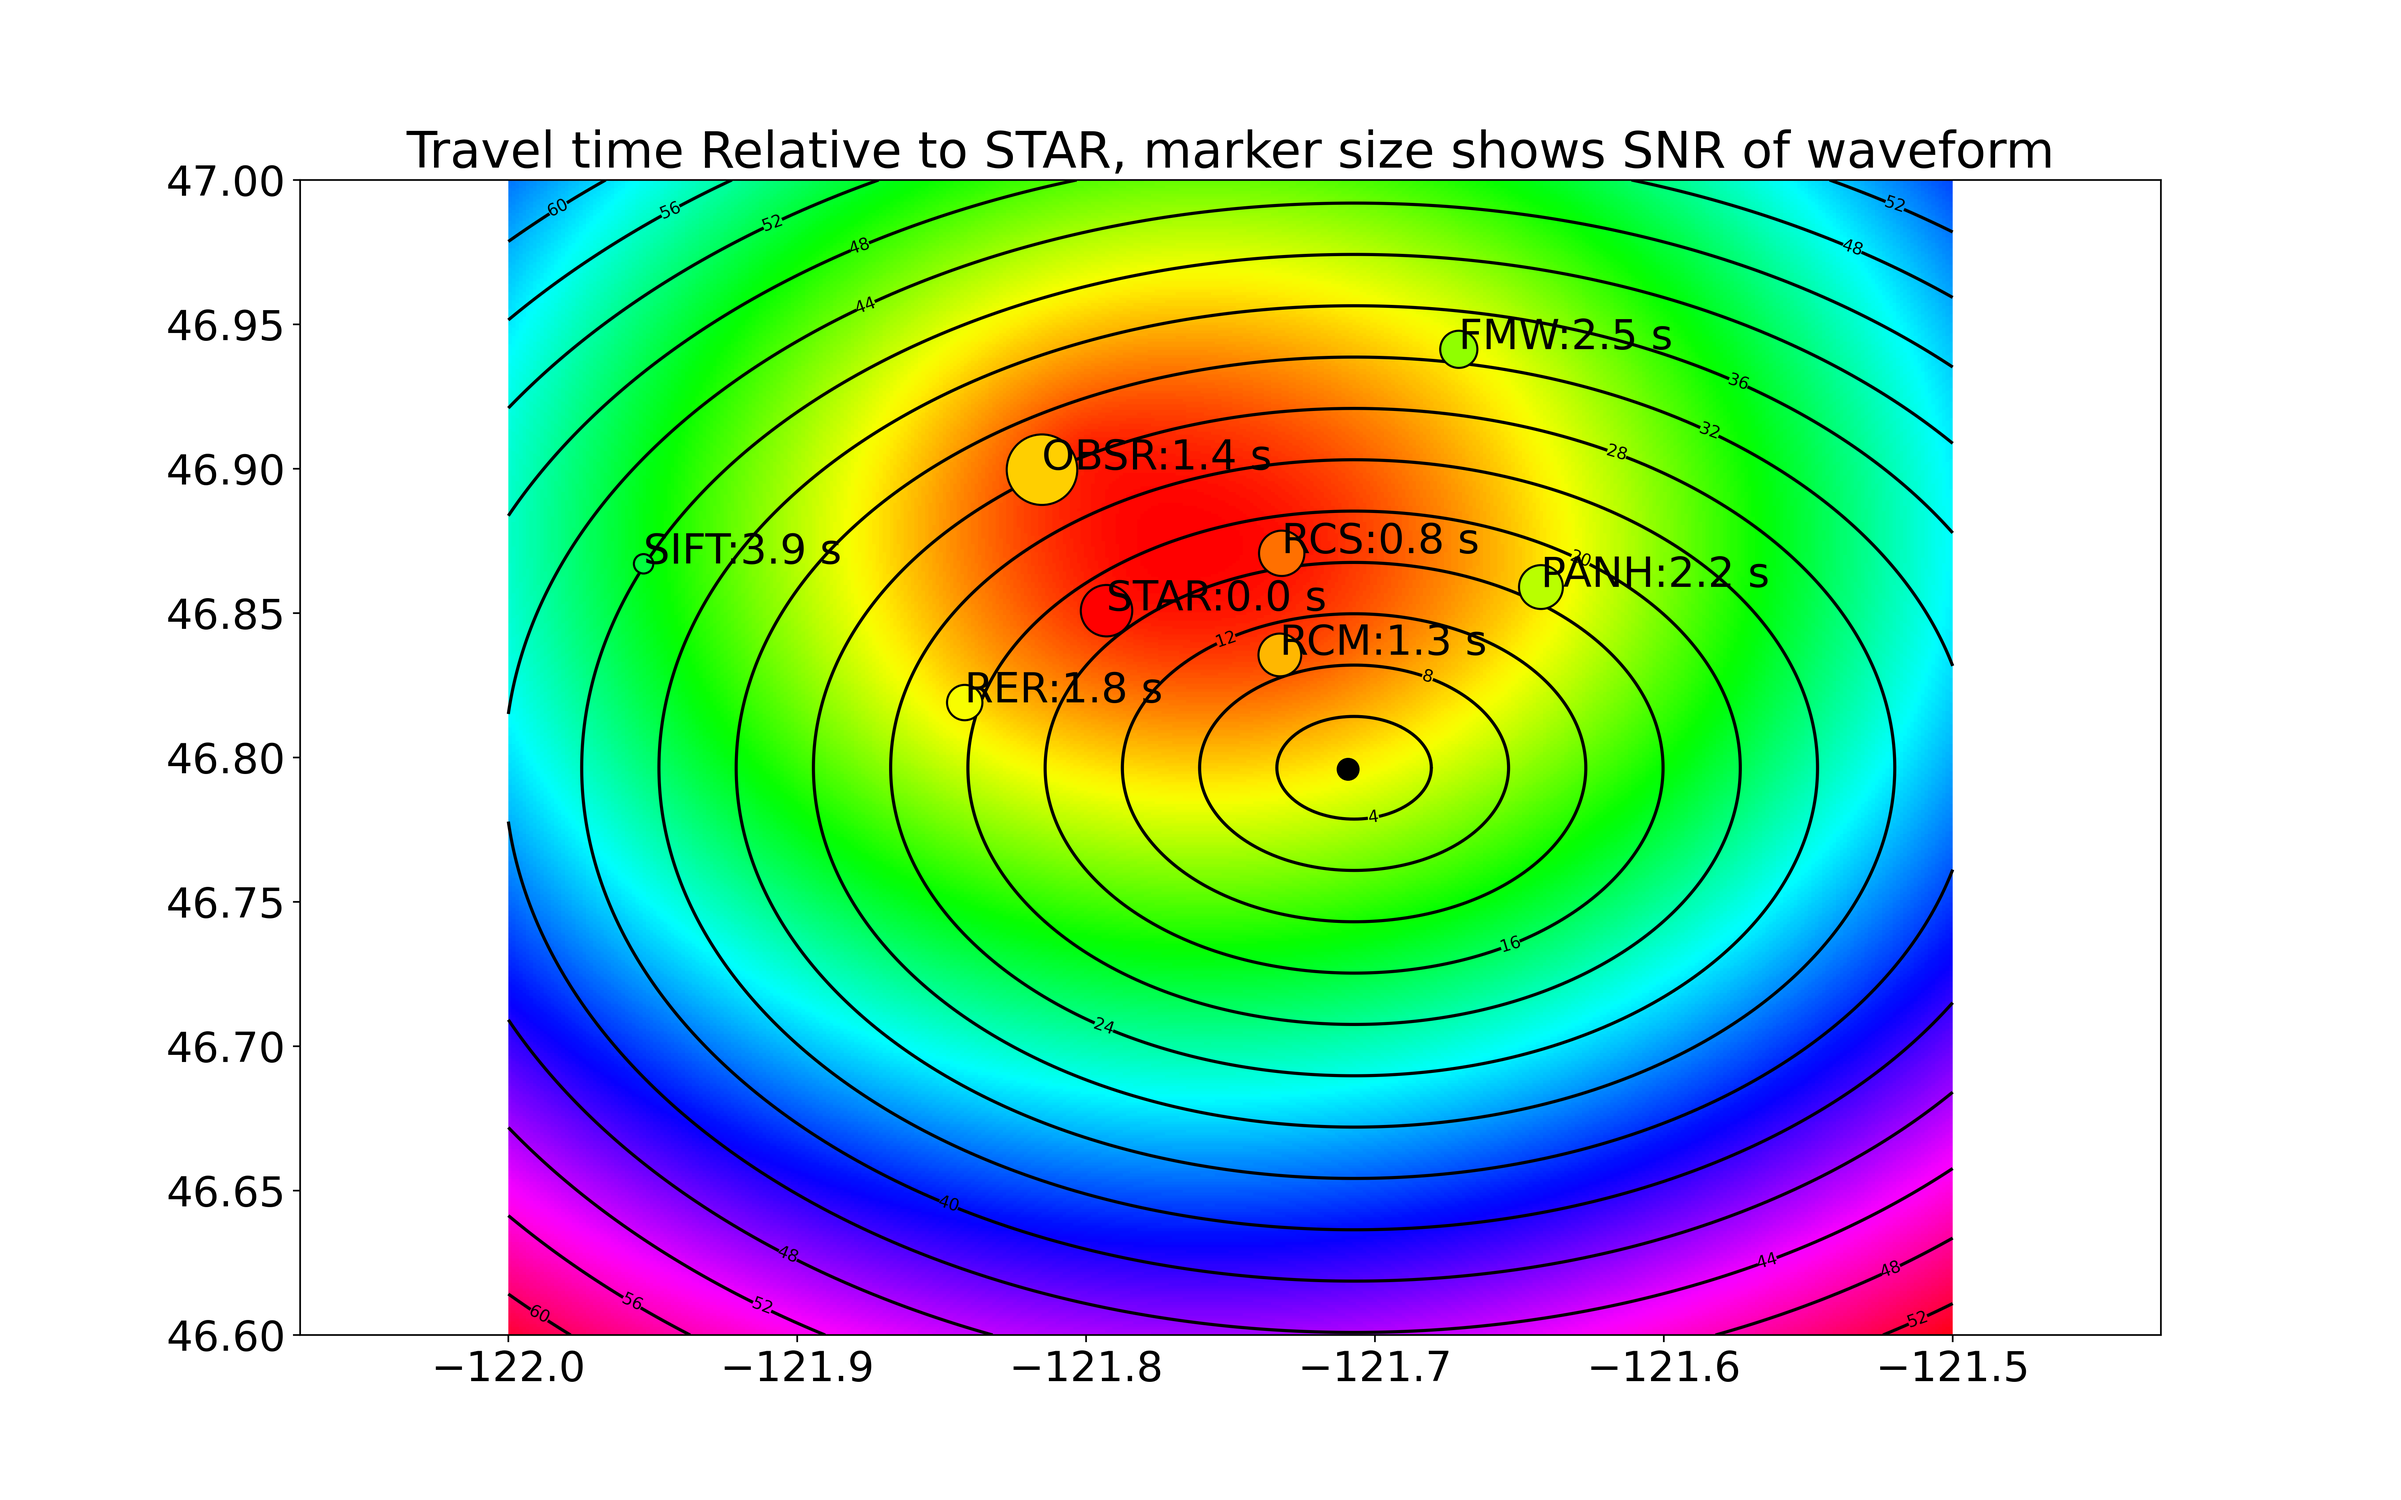
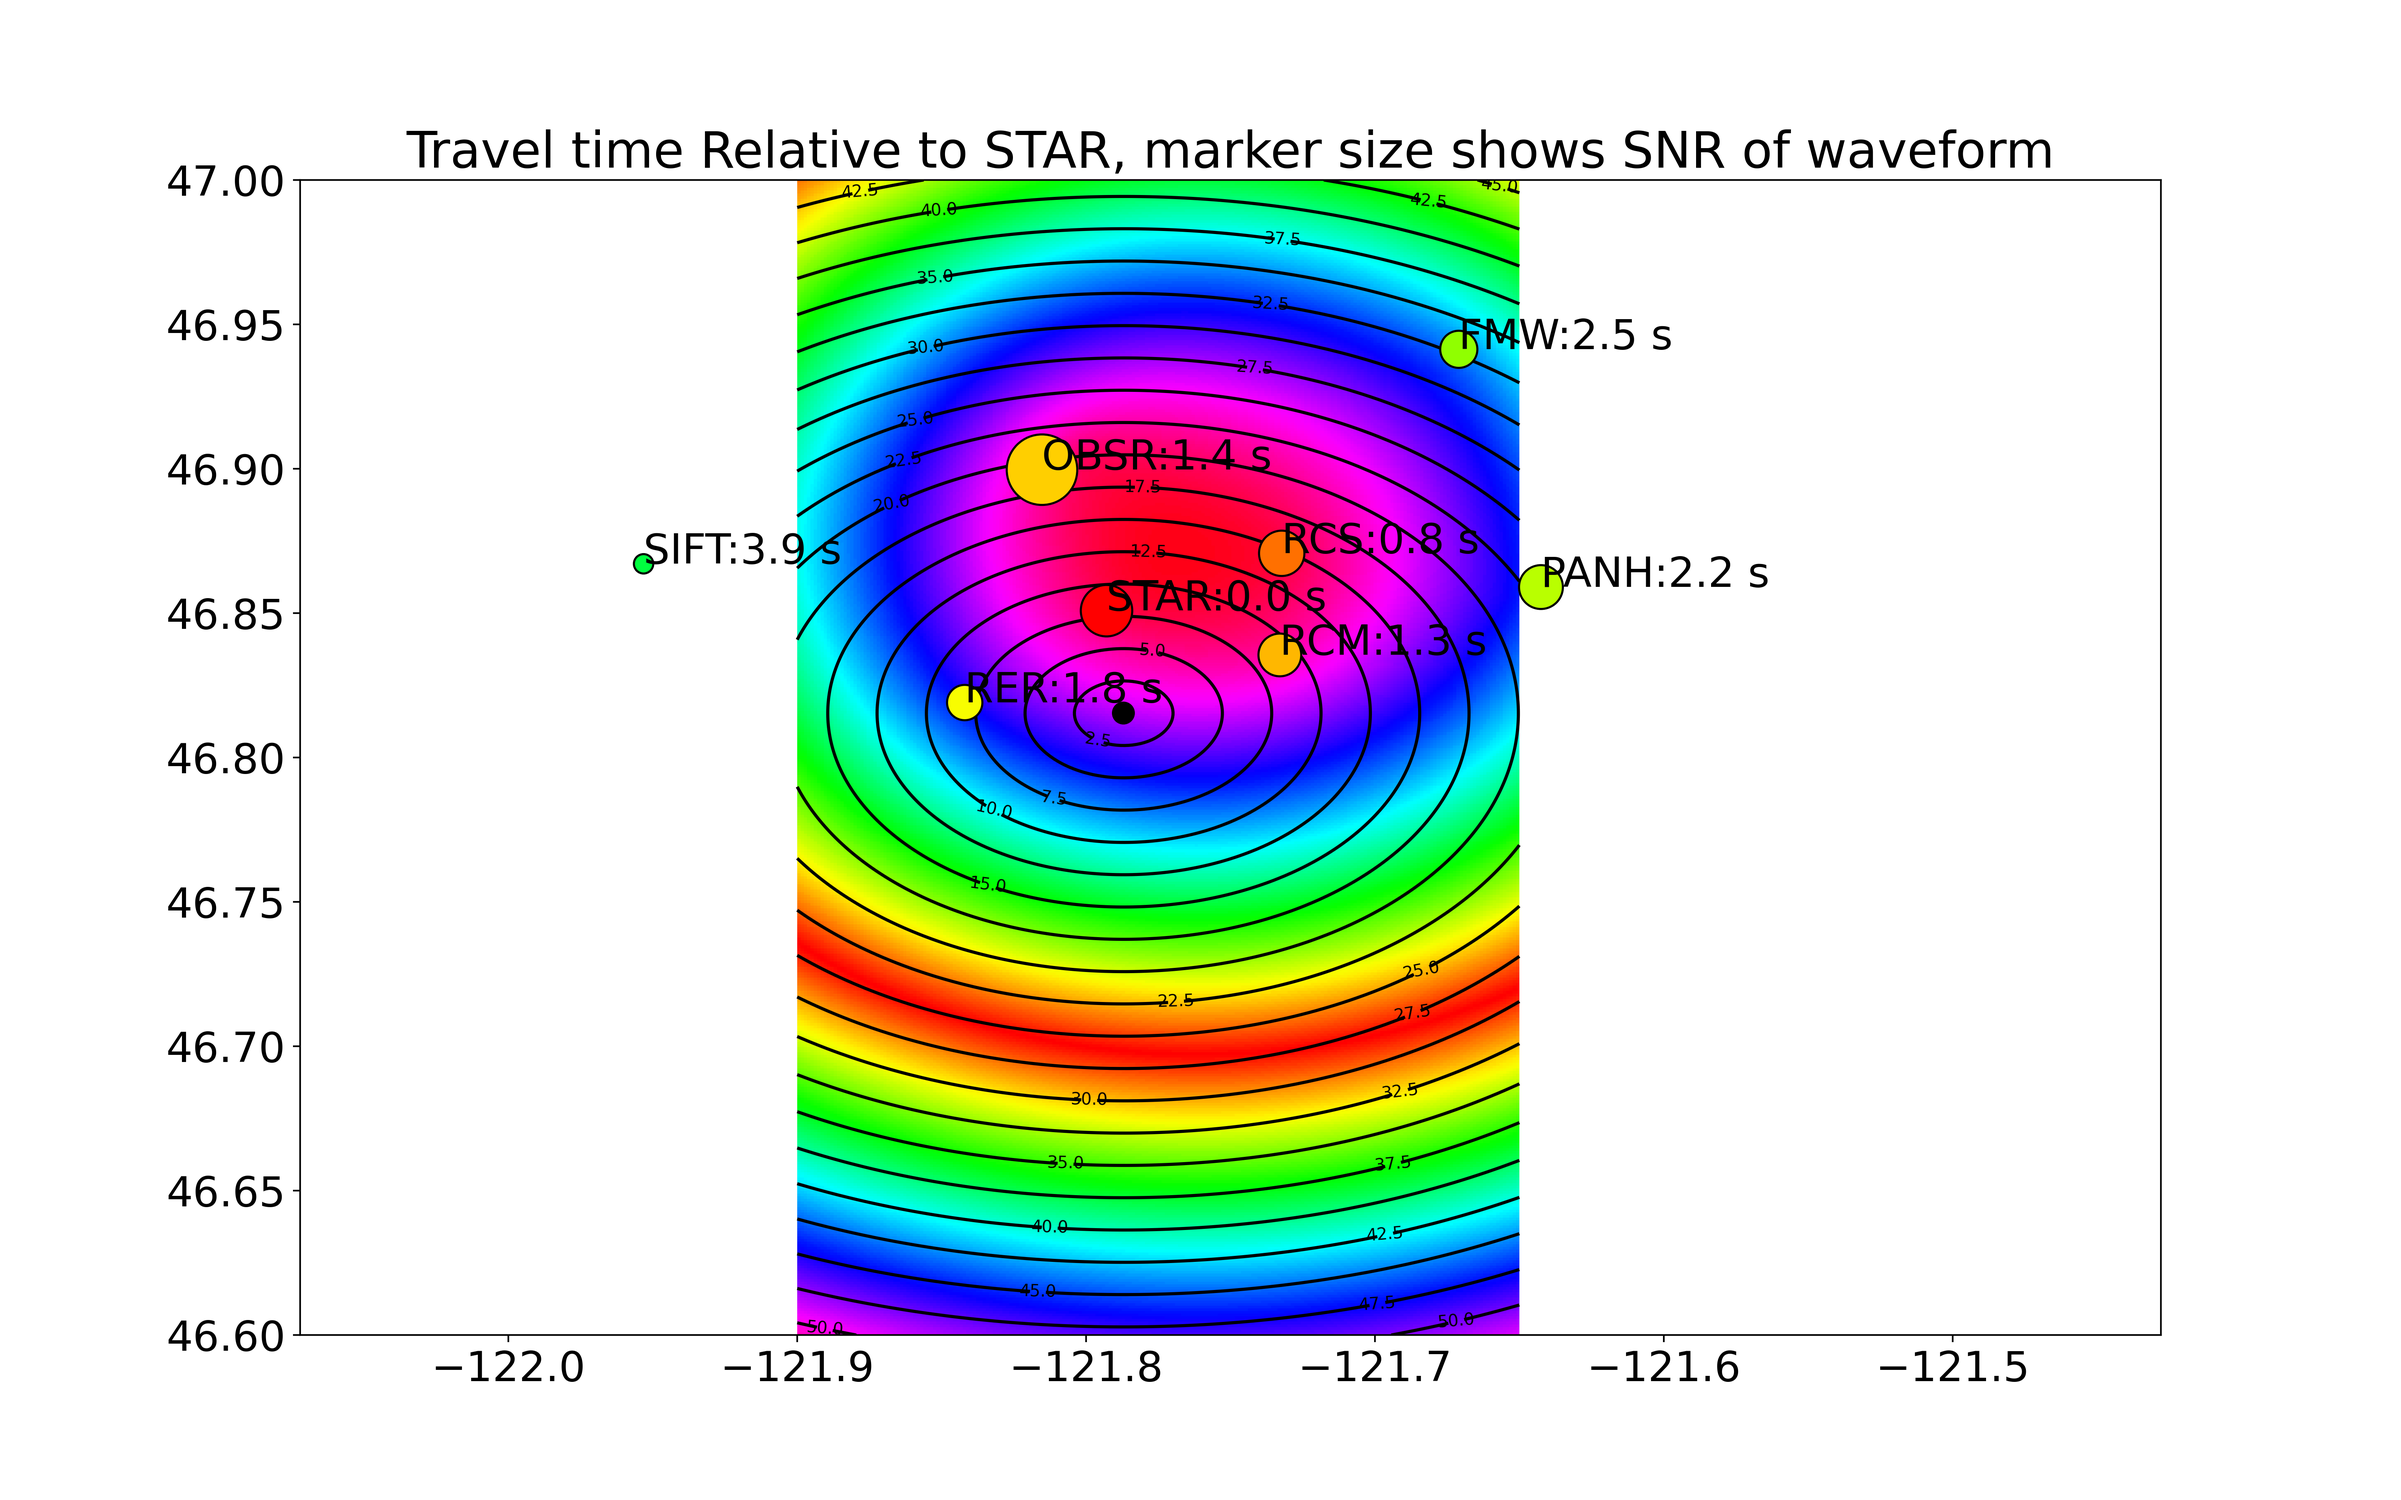
back to cartesian

diff --git a/src/utils.py b/src/utils.py
@@ -273,13 +273,13 @@ def gridsearch_parallel_vs(lat_start,lon_start,lat_end,lon_end,sta_lat,sta_lon,\
     # Generate the x and y coordinates for the grid
     x_coords = np.arange(x1, x2, x_step)
     y_coords = np.arange(y1, y2, x_step)
-    t0 = np.arange(-5,5,t_step)
+    t0 = np.arange(-2,2,t_step)
 
     tpick =arrivals-np.min(arrivals)
     def rss_calc(tt0):
         resmin=np.inf
         idx=[0,0]
-        for iv in range(1000,5000,100):
+        for iv in range(800,5000,100):
             for j in range(len(x_coords)):
                 for k in range(len(y_coords)):
                     for h in range(len(xsta)):
